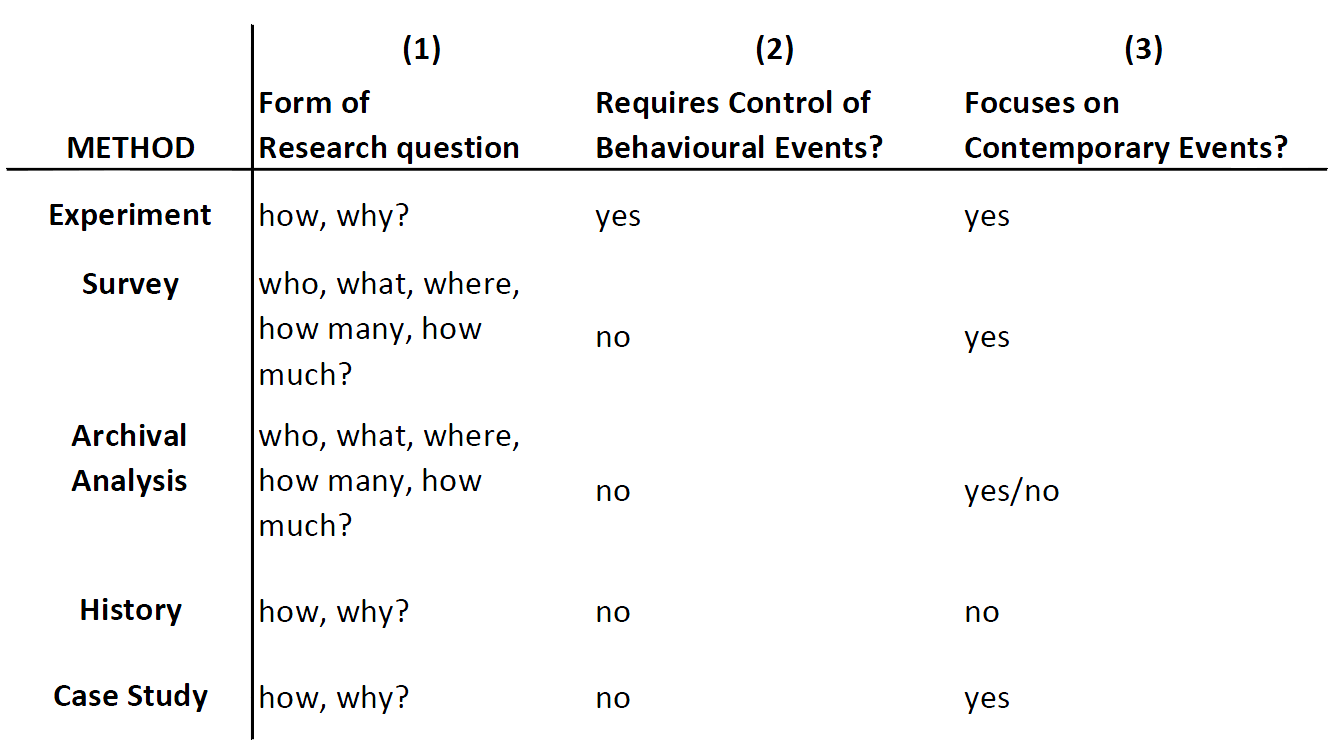
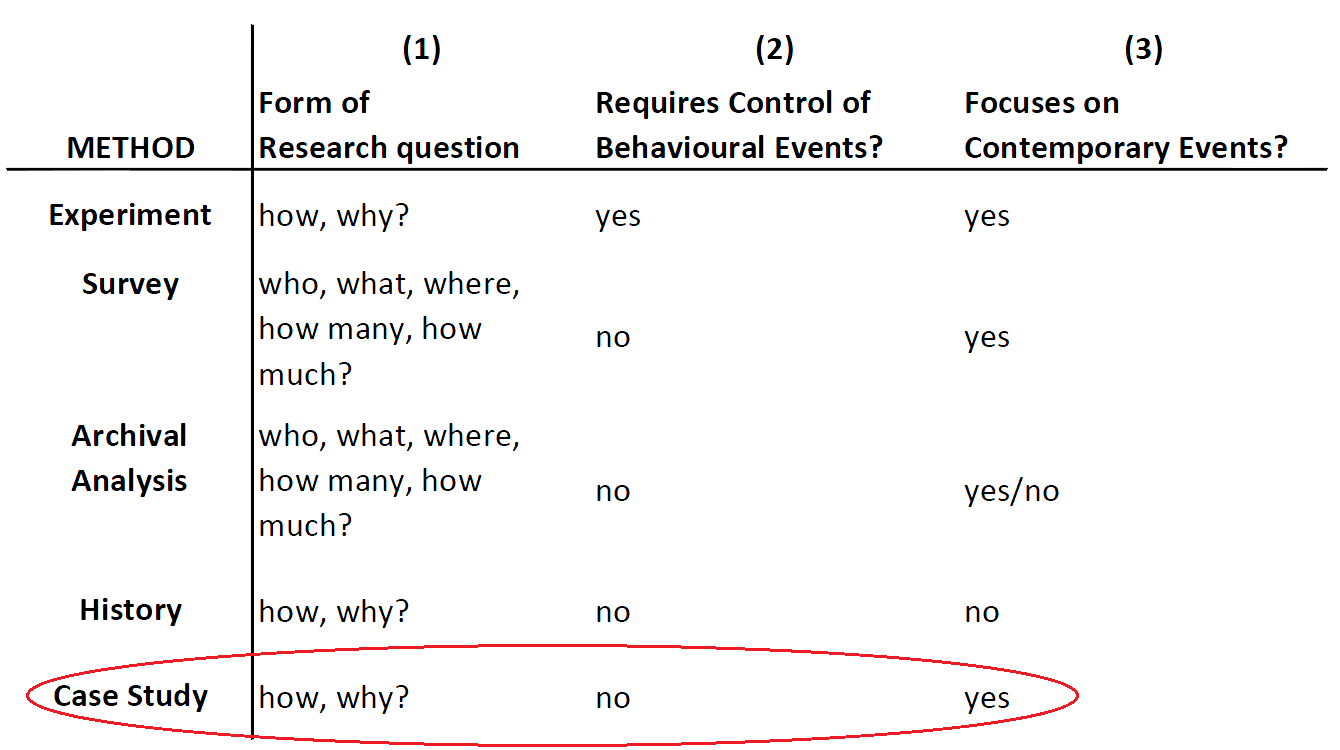
worked on choice of methods and modified the methods figure

diff --git a/choiceOfMethod.tex b/choiceOfMethod.tex
@@ -1,16 +1,23 @@
-Our main research question is defined in the following way:
+The main research question of this study was used to determine which research method would be the most fitting. The following is the main research question we arrived at:
 
-\begin{quote}
-How do organizations perform information security incident management in practice?
-\end{quote}
+\begin{itemize}
+\item How do organizations perform information security incident management in practice?
+\end{itemize}
 
-This is a so-called "how" question. Figure \ref{fig:methods} shows an overview of various research methods and three criteria that can be used to determine which method to choose. Based on the type of research question this study has, several of this methods could have been chosen. However, our study focuses on contemporary events, as we wish to examine incident handling in practice in the present time, and not from a historical point of view. Additionally the goal is to examine practices in organizations and we do not require control of behavioural events. Based on figure \ref{fig:methods}, case study emerged as the most suitable method for this study.
+Figure \ref{fig:methods} shows an overview of various research methods and three criteria that can be used to determine the appropriate research method for a study. The criteria are: form of research question, whether the study requires control of behavioural events or not and if the study focuses on contemporary events. The defined research question for this study is a so-called "how" question. The goal was to reveal current practices in organizations and the study did therefore not require control of any behavioural events. The study focuses mainly on contemporary events. Some past events such as incidents that have occurred are relevant, but the main focus is on current practices. Based on this, case study emerged as the most suitable method for this study, as shown in the figure.
 
-\begin{figure}[H]
-%\hspace*{-0.4cm}
+\begin{figure}[ht]
 \begin{center}
 \includegraphics[scale=0.35]{methods.png}
-\caption[Situations for different research methods]{Situations for different research methods, derived from \cite{CaseStudyResearch}}
+\caption[Situations for different research methods]{Situations for different research methods, modified from \cite{CaseStudyResearch}}
 \label{fig:methods}
 \end{center}
 \end{figure}
+
+There are other advantages to choosing case study as the research method for this study. Case studies can provide information that can help judge if specific technologies will benefit an organization or project \cite{kitchenham1995case}. This is applicable to our study and especially to the sub-question:
+
+\begin{itemize}
+\item To what extent are existing standards/guidelines adopted in plans for information security incident management?
+\end{itemize}
+
+A case study is applicable to real-world projects, which is what we wanted to study. Another important advantage is that it can deal with various kinds of evidence, such as documents, archival records, interviews and artefacts.
